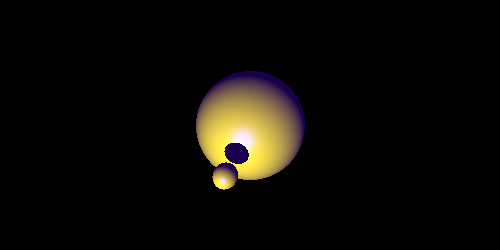
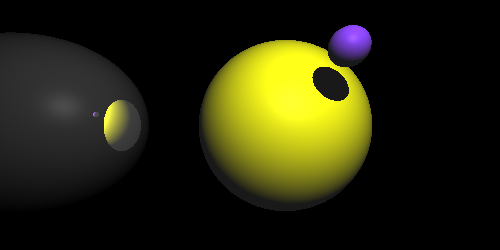
Reflection

diff --git a/src/main.rs b/src/main.rs
@@ -22,7 +22,8 @@ fn trace(ray : Ray, depth : u32, scene : &Scene) -> Vector3d {
         }
 
         if hit_record.material.has_reflection() {
-            let reflected_ray = Ray::new(hit_record.point, hit_record.normal);
+            let reflection = Vector3d::zero() - ray.get_direction().reflect(hit_record.normal).normalized();
+            let reflected_ray = Ray::new(hit_record.point + reflection * 0.001, reflection);
             let reflected_color = trace(reflected_ray, depth - 1, scene);
 
             color += hit_record.material.reflection_color * reflected_color;
@@ -55,43 +56,56 @@ fn main() {
     let width = 500;
     let height = 250;
     let depth = 30;
-    let fov = 90;
+    let fov = 65;
 
     let look_from = Vector3d::new(0.0, 0.0, -5.0);
     let look_at = Vector3d::new(0.0, 0.0, 0.0);
     let up = Vector3d::new(0.0, 1.0, 0.0);
 
     let sphere1 = sphere::Sphere::new(
-        Vector3d::new(0.0, 0.0, 0.0), 
+        Vector3d::new(0.75, 0.0, 0.0), 
         2.0,
         material::Material::new_specular(
             Vector3d::one(), 
-            Vector3d::one(),
+            Vector3d::new(1.0, 1.0, 0.0),
             Vector3d::one(),
             10.0
         )
     );
 
     let sphere2 = sphere::Sphere::new(
-        Vector3d::new(0.5, 1.0, -2.5), 
+        Vector3d::new(1.25, 1.0, -2.5), 
         0.25,
         material::Material::new_specular(
             Vector3d::one(), 
-            Vector3d::one(),
+            Vector3d::new(0.5, 0.2, 1.0),
             Vector3d::one(),
             10.0
         )
     );
 
+    let sphere3 = sphere::Sphere::new(
+        Vector3d::new(-3.5, 0.0, -1.5), 
+        1.5,
+        material::Material::new(
+            Vector3d::zero(), 
+            Vector3d::new(0.2, 0.2, 0.2),
+            Vector3d::one(),
+            20.0,
+            Vector3d::one(),
+            Vector3d::zero()
+        )
+    );
+
     let light = Light {
         position: Vector3d::new(1.0, 2.0, -5.0),
-        ambient_color: Vector3d::new(0.1, 0.0, 0.3),
-        diffuse_color: Vector3d::new(1.0, 1.0, 0.0),
-        specular_color: Vector3d::new(0.0, 0.0, 1.0),
+        ambient_color: Vector3d::new(0.1, 0.1, 0.1),
+        diffuse_color: Vector3d::new(1.0, 1.0, 1.0),
+        specular_color: Vector3d::new(0.1, 0.1, 0.1),
     };
 
     let scene = Scene {
-        objects: vec![sphere1, sphere2],
+        objects: vec![sphere1, sphere2, sphere3],
         lights: vec![light],
         camera_pos: look_from
     };
@@ -105,7 +119,7 @@ fn main() {
     for (x, y, pixel) in img.enumerate_pixels_mut() {
         let u = x as f64 / width as f64;
         let v = y as f64 / height as f64;
-        let ray = camera.get_ray(u, v);
+        let ray = camera.get_ray(1.0 - u, 1.0 - v);
 
         let color = trace(ray, depth, &scene);
         let r = to_color(color.x);
